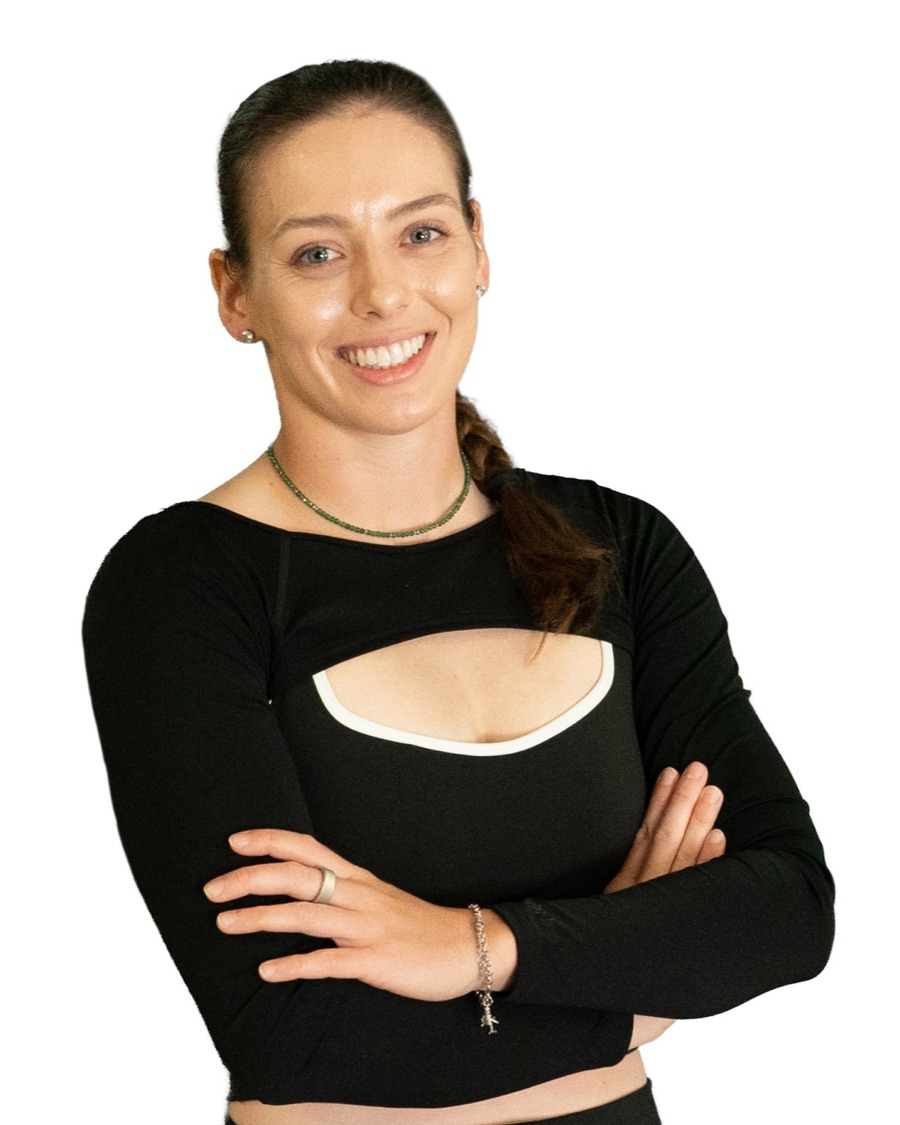
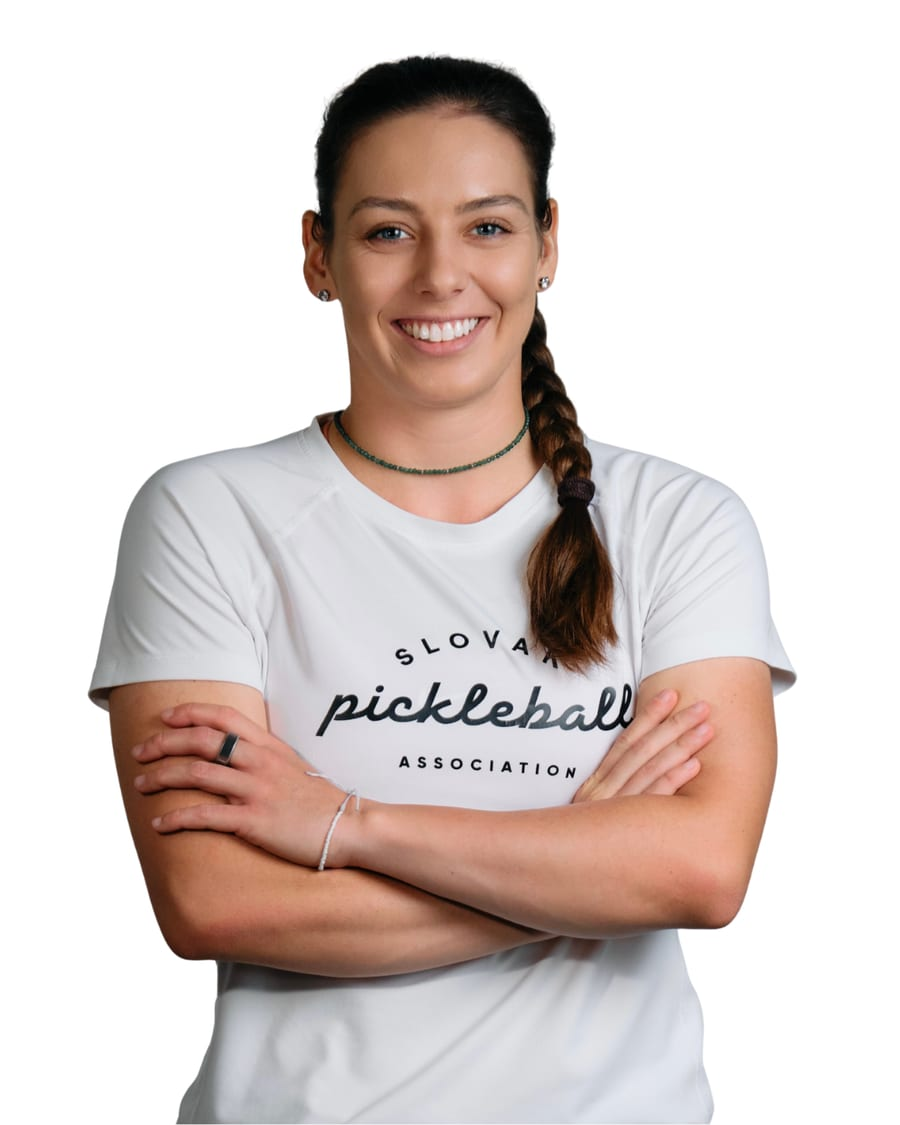
Europe: Kanichová's new studio portrait (Katherina, 10/17)

diff --git a/CLAUDE.md b/CLAUDE.md
@@ -78,8 +78,9 @@ Sanity (CMS, pending confirm) · Vercel (staging) → AWS (prod, Phase 3).
 - /europe ITP card: Catie's new second paragraph (ITPs may still compete in 2026, ≤125-point events), verbatim.
 - New roster entry `yuri-syromolotov` (row 28 of Catie's sheet): no `portrait` on purpose (silhouette until the file
   lands), divisions are the house default pending her confirmation, Instagram 200.
-- **⚠ NOT DONE: Kanichová's new portrait.** "VICTORIA KANICHOVA NEW.png" is in Slack and the connector was down;
-  flatten on white, 900×1125 q82 → `public/europe/pros/viktoria-kanichova.jpg` when the file is in hand.
+- Kanichová's new portrait (Katherina, #ppa-tour-europe 10/17): "VICTORIA KANICHOVA NEW.png" (1080×1350, Drive file
+  `1KVkv7-DFru34Uipyd5QY3N4vKczUzVqs`, link-shared) → flattened on white, 900×1125 q82 (56 KB), same path
+  `public/europe/pros/viktoria-kanichova.jpg`, so no roster change.
 
 ### 2026-10-16 — Europe: DailyStory event-news form + Traskin's profile (Bryce's patches, no push access)
 
